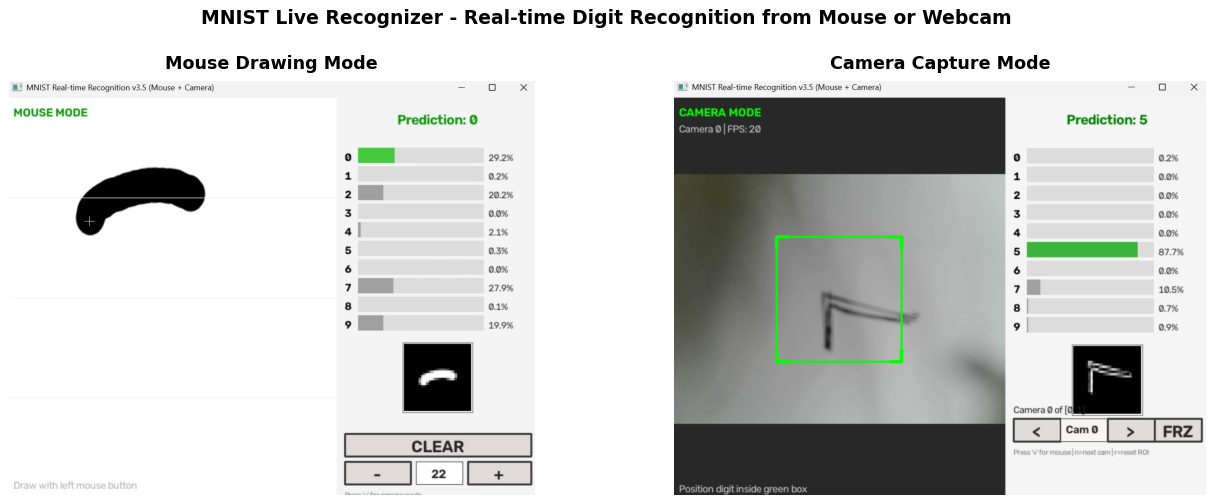
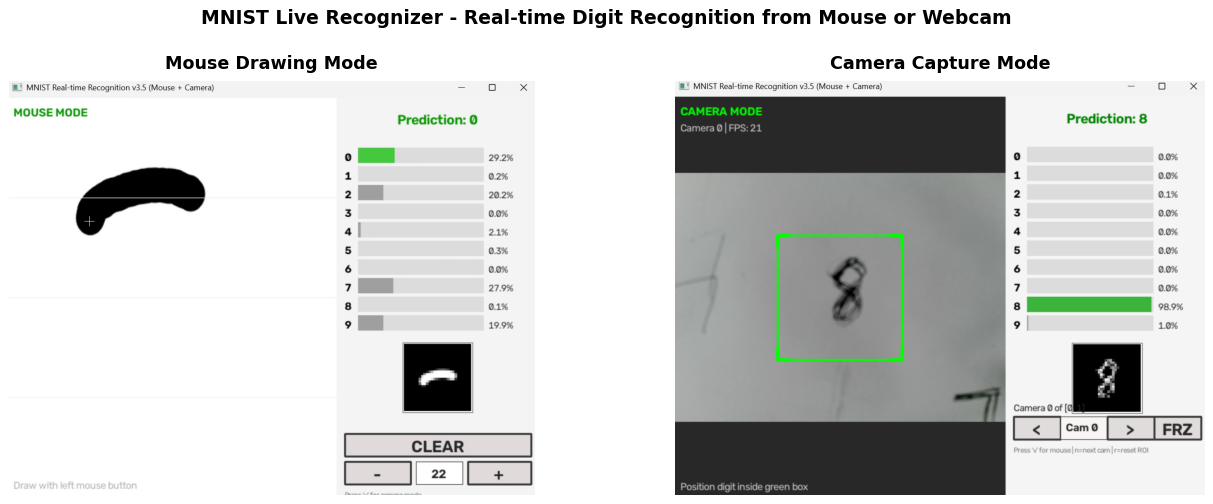
docs: replace camera screenshot with digit 8 (98.9% confidence)
- New camera screenshot: hand-written 8 with 98.9% confidence
  (replaces previous 5 at 87.7%)
- Regenerated banner to use new screenshot
- Updated all README text references (EN + CN)
- Updated pic/README.md to reference camera8.png
- Better demonstrates system accuracy on a clean, well-recognized digit

diff --git a/README.md b/README.md
@@ -33,7 +33,7 @@ The project goes through **5 iterations** (v1 → v2 → v2.5 → v3 → v3.5), 
 
 ![Banner](docs/images/00_banner.png)
 
-**Mouse Mode** (drawing in progress, real-time inference) | **Camera Mode** (real hand-written digit, 87.7% confidence on digit 5)
+**Mouse Mode** (drawing in progress, real-time inference) | **Camera Mode** (real hand-written digit, 98.9% confidence on digit 8)
 
 ### Live Demos
 
@@ -45,7 +45,7 @@ The project goes through **5 iterations** (v1 → v2 → v2.5 → v3 → v3.5), 
 #### Camera Capture Mode (real handwriting)
 ![Real Camera Screenshot](docs/images/10_real_camera_screenshot.png)
 
-*Real webcam feed of hand-written "5" on paper — predicted as 5 with 87.7% confidence.*
+*Real webcam feed of hand-written "8" on paper — predicted as 8 with 98.9% confidence.*
 
 ### Features
 
@@ -269,7 +269,7 @@ MIT License - see [LICENSE](LICENSE) for details.
 
 ![横幅](docs/images/00_banner.png)
 
-**鼠标模式**(绘制中,实时推理) | **摄像头模式**(真实手写"5",87.7% 置信度)
+**鼠标模式**(绘制中,实时推理) | **摄像头模式**(真实手写"8",98.9% 置信度)
 
 ### 实时演示
 
@@ -281,7 +281,7 @@ MIT License - see [LICENSE](LICENSE) for details.
 #### 摄像头捕获模式(真实手写)
 ![真实摄像头截图](docs/images/10_real_camera_screenshot.png)
 
-*真实摄像头画面:纸上写"5"——87.7% 置信度识别为 5。*
+*真实摄像头画面:纸上写"8"——98.9% 置信度识别为 8。*
 
 ### 功能特性
 

diff --git a/pic/README.md b/pic/README.md
@@ -6,7 +6,7 @@ This folder contains the **original source assets** used to generate the demo GI
 
 | File | Used For | In README |
 |------|----------|-----------|
-| `camra.png` | Real camera mode screenshot showing hand-written "5" with 87.7% confidence | `docs/images/10_real_camera_screenshot.png` |
+| `camera8.png` | Real camera mode screenshot showing hand-written "5" with 87.7% confidence | `docs/images/10_real_camera_screenshot.png` |
 | `mouse mode.mp4` | Real screen recording of mouse drawing mode | `docs/gifs/mouse_mode_demo.gif` (converted) |
 
 ## Notes
